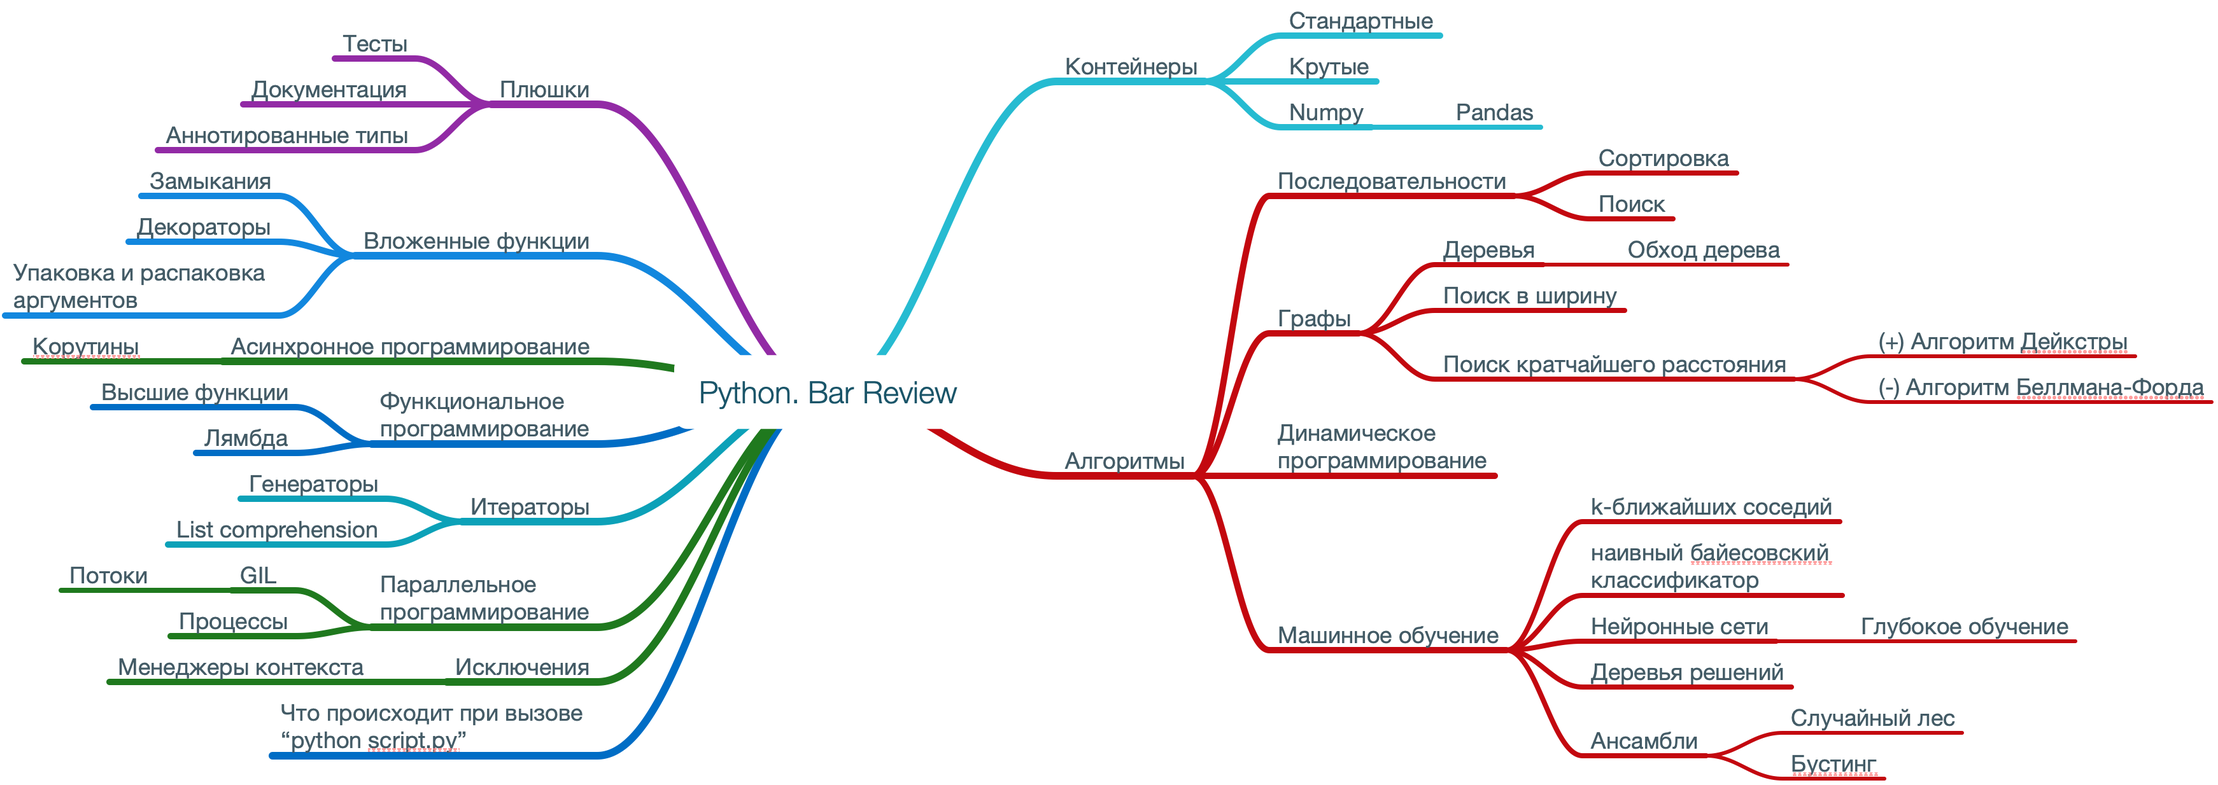
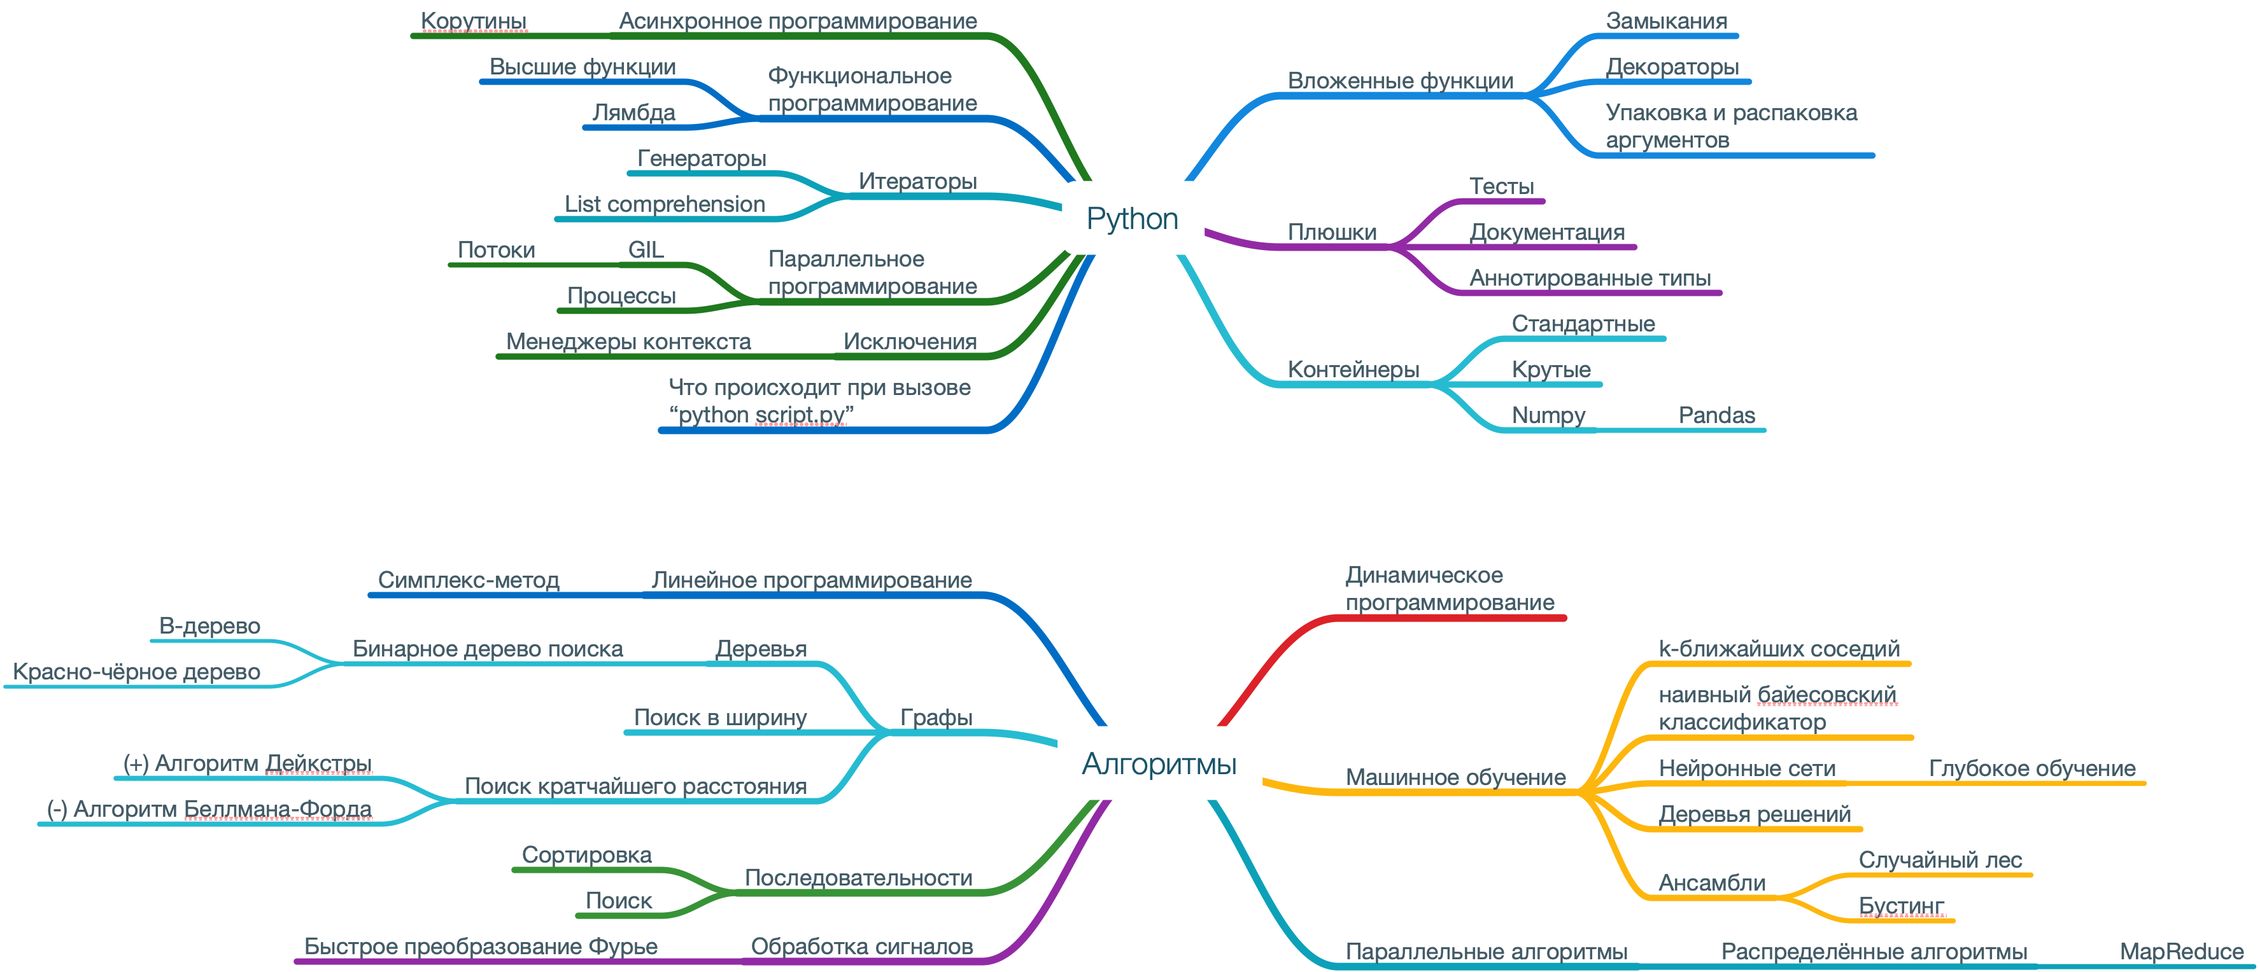
feat(syllabus): add additional algorithms

diff --git a/syllabus/syllabus.mm b/syllabus/syllabus.mm
@@ -1,27 +1,14 @@
-<map version="1.0.0"><node ID="8ECD3466-9C7C-4C0B-A3CE-2BFA047778C5" BACKGROUND_COLOR="#FFFFFF" TEXT="Python. Bar Review" COLOR="#1A5569" POSITION="right" STYLE="bubble"><edge COLOR="#1A5469" WIDTH="4" /><font NAME="HelveticaNeue-Light" SIZE="24" /><node ID="C0220CFD-A3BE-4C79-B2D3-633D93D4E8A9" TEXT="&#1050;&#1086;&#1085;&#1090;&#1077;&#1081;&#1085;&#1077;&#1088;&#1099;" COLOR="#435B66" POSITION="right" STYLE="fork"><edge COLOR="#25BAD1" WIDTH="6" /><font NAME="HelveticaNeue" SIZE="18" /><node ID="29D1FE3F-DA1B-400C-9C0A-5FA8BA569C10" TEXT="&#1057;&#1090;&#1072;&#1085;&#1076;&#1072;&#1088;&#1090;&#1085;&#1099;&#1077;" COLOR="#435B66" POSITION="right" STYLE="fork"><edge COLOR="#25BAD1" WIDTH="5" /><font NAME="HelveticaNeue" SIZE="18" /></node>
+<map version="1.0.0"><node Text="Mind Map"><node ID="8ECD3466-9C7C-4C0B-A3CE-2BFA047778C5" BACKGROUND_COLOR="#FFFFFF" TEXT="Python" COLOR="#1A5569" POSITION="right" STYLE="bubble"><edge COLOR="#1A5469" WIDTH="4" /><font NAME="HelveticaNeue-Light" SIZE="24" /><node ID="0F23BC96-E40B-48C0-90B7-D39E2A319F69" TEXT="&#1042;&#1083;&#1086;&#1078;&#1077;&#1085;&#1085;&#1099;&#1077; &#1092;&#1091;&#1085;&#1082;&#1094;&#1080;&#1080;" COLOR="#435B66" POSITION="right" STYLE="fork"><edge COLOR="#1286DE" WIDTH="6" /><font NAME="HelveticaNeue" SIZE="18" /><node ID="79695E8F-3302-4248-BA6D-52C0089AD57E" TEXT="&#1047;&#1072;&#1084;&#1099;&#1082;&#1072;&#1085;&#1080;&#1103;" COLOR="#435B66" POSITION="right" STYLE="fork"><edge COLOR="#1286DE" WIDTH="5" /><font NAME="HelveticaNeue" SIZE="18" /></node>
+<node ID="023BF15F-4CBC-48BD-B8C4-F1ABDEA6B1EC" TEXT="&#1044;&#1077;&#1082;&#1086;&#1088;&#1072;&#1090;&#1086;&#1088;&#1099;" COLOR="#435B66" POSITION="right" STYLE="fork"><edge COLOR="#1286DE" WIDTH="5" /><font NAME="HelveticaNeue" SIZE="18" /></node>
+<node ID="C581C0E2-488C-4DAD-AC4A-4E69DBB9EBCA" TEXT="&#1059;&#1087;&#1072;&#1082;&#1086;&#1074;&#1082;&#1072; &#1080; &#1088;&#1072;&#1089;&#1087;&#1072;&#1082;&#1086;&#1074;&#1082;&#1072; &#1072;&#1088;&#1075;&#1091;&#1084;&#1077;&#1085;&#1090;&#1086;&#1074;" COLOR="#435B66" POSITION="right" STYLE="fork"><edge COLOR="#1286DE" WIDTH="5" /><font NAME="HelveticaNeue" SIZE="18" /></node>
+</node>
+<node ID="DA55AC8F-4DC9-4E64-A98B-B39C810A7DAB" TEXT="&#1055;&#1083;&#1102;&#1096;&#1082;&#1080;" COLOR="#435B66" POSITION="right" STYLE="fork"><edge COLOR="#922AA4" WIDTH="6" /><font NAME="HelveticaNeue" SIZE="18" /><node ID="98374155-4B7B-4C69-9FD7-BB05AFDBAD1D" TEXT="&#1058;&#1077;&#1089;&#1090;&#1099;" COLOR="#435B66" POSITION="right" STYLE="fork"><edge COLOR="#922AA4" WIDTH="5" /><font NAME="HelveticaNeue" SIZE="18" /></node>
+<node ID="E003D9E8-A8B7-46EF-A676-8E44193AACE4" TEXT="&#1044;&#1086;&#1082;&#1091;&#1084;&#1077;&#1085;&#1090;&#1072;&#1094;&#1080;&#1103;" COLOR="#435B66" POSITION="right" STYLE="fork"><edge COLOR="#922AA4" WIDTH="5" /><font NAME="HelveticaNeue" SIZE="18" /></node>
+<node ID="658D0BDA-5227-41FF-8C41-C3824AD63FD4" TEXT="&#1040;&#1085;&#1085;&#1086;&#1090;&#1080;&#1088;&#1086;&#1074;&#1072;&#1085;&#1085;&#1099;&#1077; &#1090;&#1080;&#1087;&#1099;" COLOR="#435B66" POSITION="right" STYLE="fork"><edge COLOR="#922AA4" WIDTH="5" /><font NAME="HelveticaNeue" SIZE="18" /></node>
+</node>
+<node ID="C0220CFD-A3BE-4C79-B2D3-633D93D4E8A9" TEXT="&#1050;&#1086;&#1085;&#1090;&#1077;&#1081;&#1085;&#1077;&#1088;&#1099;" COLOR="#435B66" POSITION="right" STYLE="fork"><edge COLOR="#25BAD1" WIDTH="6" /><font NAME="HelveticaNeue" SIZE="18" /><node ID="29D1FE3F-DA1B-400C-9C0A-5FA8BA569C10" TEXT="&#1057;&#1090;&#1072;&#1085;&#1076;&#1072;&#1088;&#1090;&#1085;&#1099;&#1077;" COLOR="#435B66" POSITION="right" STYLE="fork"><edge COLOR="#25BAD1" WIDTH="5" /><font NAME="HelveticaNeue" SIZE="18" /></node>
 <node ID="F9585E78-6528-4F38-9D5A-A3D3A4517D61" TEXT="&#1050;&#1088;&#1091;&#1090;&#1099;&#1077;" COLOR="#435B66" POSITION="right" STYLE="fork"><edge COLOR="#25BAD1" WIDTH="5" /><font NAME="HelveticaNeue" SIZE="18" /></node>
 <node ID="4914A1A3-D3C8-4916-B5EC-4465EC121BB1" TEXT="Numpy" COLOR="#435B66" POSITION="right" STYLE="fork"><edge COLOR="#25BAD1" WIDTH="5" /><font NAME="HelveticaNeue" SIZE="18" /><node ID="6E85FA9A-EE04-4BBD-9E30-794FDA604EE5" TEXT="Pandas" COLOR="#435B66" POSITION="right" STYLE="fork"><edge COLOR="#25BAD1" WIDTH="4" /><font NAME="HelveticaNeue" SIZE="18" /></node>
-</node>
-</node>
-<node ID="99CD8329-E127-4B9B-98D1-E4C412B0BABD" TEXT="&#1040;&#1083;&#1075;&#1086;&#1088;&#1080;&#1090;&#1084;&#1099;" COLOR="#435B66" POSITION="right" STYLE="fork"><edge COLOR="#C2080E" WIDTH="6" /><font NAME="HelveticaNeue" SIZE="18" /><node ID="37137990-C473-4A3A-935D-C73163A06745" TEXT="&#1055;&#1086;&#1089;&#1083;&#1077;&#1076;&#1086;&#1074;&#1072;&#1090;&#1077;&#1083;&#1100;&#1085;&#1086;&#1089;&#1090;&#1080;" COLOR="#435B66" POSITION="right" STYLE="fork"><edge COLOR="#C2080E" WIDTH="5" /><font NAME="HelveticaNeue" SIZE="18" /><node ID="F658EE6B-2CD9-4604-8A34-AADAEB605E7F" TEXT="&#1057;&#1086;&#1088;&#1090;&#1080;&#1088;&#1086;&#1074;&#1082;&#1072;" COLOR="#435B66" POSITION="right" STYLE="fork"><edge COLOR="#C2080E" WIDTH="4" /><font NAME="HelveticaNeue" SIZE="18" /></node>
-<node ID="35EBF899-55AD-43FD-9D40-ED1AD45F9875" TEXT="&#1055;&#1086;&#1080;&#1089;&#1082;" COLOR="#435B66" POSITION="right" STYLE="fork"><edge COLOR="#C2080E" WIDTH="4" /><font NAME="HelveticaNeue" SIZE="18" /></node>
-</node>
-<node ID="48013EFB-696B-47D6-8791-3FFE5B12008D" TEXT="&#1043;&#1088;&#1072;&#1092;&#1099;" COLOR="#435B66" POSITION="right" STYLE="fork"><edge COLOR="#C2080E" WIDTH="5" /><font NAME="HelveticaNeue" SIZE="18" /><node ID="BDBC08D9-AE35-4150-A378-7BBA29AD6923" TEXT="&#1044;&#1077;&#1088;&#1077;&#1074;&#1100;&#1103;" COLOR="#435B66" POSITION="right" STYLE="fork"><edge COLOR="#C2080E" WIDTH="4" /><font NAME="HelveticaNeue" SIZE="18" /><node ID="95F0F8CD-3ED7-4630-8066-53937DD55DE9" TEXT="&#1054;&#1073;&#1093;&#1086;&#1076; &#1076;&#1077;&#1088;&#1077;&#1074;&#1072;" COLOR="#435B66" POSITION="right" STYLE="fork"><edge COLOR="#C2080E" WIDTH="3" /><font NAME="HelveticaNeue" SIZE="18" /></node>
-</node>
-<node ID="A5D864A8-5C51-4B9F-85FA-993E7969E9C6" TEXT="&#1055;&#1086;&#1080;&#1089;&#1082; &#1074; &#1096;&#1080;&#1088;&#1080;&#1085;&#1091;" COLOR="#435B66" POSITION="right" STYLE="fork"><edge COLOR="#C2080E" WIDTH="4" /><font NAME="HelveticaNeue" SIZE="18" /></node>
-<node ID="682ED7F7-F726-4FEA-B818-F42B20E3FA0A" TEXT="&#1055;&#1086;&#1080;&#1089;&#1082; &#1082;&#1088;&#1072;&#1090;&#1095;&#1072;&#1081;&#1096;&#1077;&#1075;&#1086; &#1088;&#1072;&#1089;&#1089;&#1090;&#1086;&#1103;&#1085;&#1080;&#1103;" COLOR="#435B66" POSITION="right" STYLE="fork"><edge COLOR="#C2080E" WIDTH="4" /><font NAME="HelveticaNeue" SIZE="18" /><node ID="62012119-FD24-4769-BECF-6DD66FF60A3A" TEXT="(+) &#1040;&#1083;&#1075;&#1086;&#1088;&#1080;&#1090;&#1084; &#1044;&#1077;&#1081;&#1082;&#1089;&#1090;&#1088;&#1099;" COLOR="#435B66" POSITION="right" STYLE="fork"><edge COLOR="#C2080E" WIDTH="3" /><font NAME="HelveticaNeue" SIZE="18" /></node>
-<node ID="FF31F69A-B9C4-41F8-8729-BEBF8BD3243F" TEXT="(-) &#1040;&#1083;&#1075;&#1086;&#1088;&#1080;&#1090;&#1084; &#1041;&#1077;&#1083;&#1083;&#1084;&#1072;&#1085;&#1072;-&#1060;&#1086;&#1088;&#1076;&#1072;" COLOR="#435B66" POSITION="right" STYLE="fork"><edge COLOR="#C2080E" WIDTH="3" /><font NAME="HelveticaNeue" SIZE="18" /></node>
-</node>
-</node>
-<node ID="9CC39741-769A-455E-8AC3-24665DF8F012" TEXT="&#1044;&#1080;&#1085;&#1072;&#1084;&#1080;&#1095;&#1077;&#1089;&#1082;&#1086;&#1077; &#1087;&#1088;&#1086;&#1075;&#1088;&#1072;&#1084;&#1084;&#1080;&#1088;&#1086;&#1074;&#1072;&#1085;&#1080;&#1077;" COLOR="#435B66" POSITION="right" STYLE="fork"><edge COLOR="#C2080E" WIDTH="5" /><font NAME="HelveticaNeue" SIZE="18" /></node>
-<node ID="AD06E476-D7E3-465A-A7E0-AFA93149B640" TEXT="&#1052;&#1072;&#1096;&#1080;&#1085;&#1085;&#1086;&#1077; &#1086;&#1073;&#1091;&#1095;&#1077;&#1085;&#1080;&#1077;" COLOR="#435B66" POSITION="right" STYLE="fork"><edge COLOR="#C2080E" WIDTH="5" /><font NAME="HelveticaNeue" SIZE="18" /><node ID="EC81CB6C-7601-455A-9A7B-2F9DD6FE8D14" TEXT="k-&#1073;&#1083;&#1080;&#1078;&#1072;&#1081;&#1096;&#1080;&#1093; &#1089;&#1086;&#1089;&#1077;&#1076;&#1080;&#1081;" COLOR="#435B66" POSITION="right" STYLE="fork"><edge COLOR="#C2080E" WIDTH="4" /><font NAME="HelveticaNeue" SIZE="18" /></node>
-<node ID="5FCAD8BC-ED73-4FD1-B41C-1930D47FAF59" TEXT="&#1085;&#1072;&#1080;&#1074;&#1085;&#1099;&#1081; &#1073;&#1072;&#1081;&#1077;&#1089;&#1086;&#1074;&#1089;&#1082;&#1080;&#1081; &#1082;&#1083;&#1072;&#1089;&#1089;&#1080;&#1092;&#1080;&#1082;&#1072;&#1090;&#1086;&#1088;" COLOR="#435B66" POSITION="right" STYLE="fork"><edge COLOR="#C2080E" WIDTH="4" /><font NAME="HelveticaNeue" SIZE="18" /></node>
-<node ID="24B04F0A-410E-4FAB-937F-5A12B4CDF8B9" TEXT="&#1053;&#1077;&#1081;&#1088;&#1086;&#1085;&#1085;&#1099;&#1077; &#1089;&#1077;&#1090;&#1080;" COLOR="#435B66" POSITION="right" STYLE="fork"><edge COLOR="#C2080E" WIDTH="4" /><font NAME="HelveticaNeue" SIZE="18" /><node ID="0988B802-A969-482D-8ABA-DFD31357E057" TEXT="&#1043;&#1083;&#1091;&#1073;&#1086;&#1082;&#1086;&#1077; &#1086;&#1073;&#1091;&#1095;&#1077;&#1085;&#1080;&#1077;" COLOR="#435B66" POSITION="right" STYLE="fork"><edge COLOR="#C2080E" WIDTH="3" /><font NAME="HelveticaNeue" SIZE="18" /></node>
-</node>
-<node ID="62373FD2-9779-4786-B24C-8F18F8E9E68F" TEXT="&#1044;&#1077;&#1088;&#1077;&#1074;&#1100;&#1103; &#1088;&#1077;&#1096;&#1077;&#1085;&#1080;&#1081;" COLOR="#435B66" POSITION="right" STYLE="fork"><edge COLOR="#C2080E" WIDTH="4" /><font NAME="HelveticaNeue" SIZE="18" /></node>
-<node ID="024D6D93-C98F-4DF4-A269-3BE1BC802983" TEXT="&#1040;&#1085;&#1089;&#1072;&#1084;&#1073;&#1083;&#1080;" COLOR="#435B66" POSITION="right" STYLE="fork"><edge COLOR="#C2080E" WIDTH="4" /><font NAME="HelveticaNeue" SIZE="18" /><node ID="D3A22602-C7A6-428D-A0A9-4A60C3D7ACC3" TEXT="&#1057;&#1083;&#1091;&#1095;&#1072;&#1081;&#1085;&#1099;&#1081; &#1083;&#1077;&#1089;" COLOR="#435B66" POSITION="right" STYLE="fork"><edge COLOR="#C2080E" WIDTH="3" /><font NAME="HelveticaNeue" SIZE="18" /></node>
-<node ID="11E8D690-3496-400B-9959-85E705D373F9" TEXT="&#1041;&#1091;&#1089;&#1090;&#1080;&#1085;&#1075;" COLOR="#435B66" POSITION="right" STYLE="fork"><edge COLOR="#C2080E" WIDTH="3" /><font NAME="HelveticaNeue" SIZE="18" /></node>
-</node>
 </node>
 </node>
 <node ID="9AE8308B-0A88-42BA-883C-6E2BC09299FC" TEXT="&#1063;&#1090;&#1086; &#1087;&#1088;&#1086;&#1080;&#1089;&#1093;&#1086;&#1076;&#1080;&#1090; &#1087;&#1088;&#1080; &#1074;&#1099;&#1079;&#1086;&#1074;&#1077; &#8220;python script.py&#8221;" COLOR="#435B66" POSITION="left" STYLE="fork"><edge COLOR="#FFFFFFF96DC4" WIDTH="6" /><font NAME="HelveticaNeue" SIZE="18" /></node>
@@ -39,13 +26,36 @@
 </node>
 <node ID="8BC8C82E-9962-489D-BABC-7269F31B2695" TEXT="&#1040;&#1089;&#1080;&#1085;&#1093;&#1088;&#1086;&#1085;&#1085;&#1086;&#1077; &#1087;&#1088;&#1086;&#1075;&#1088;&#1072;&#1084;&#1084;&#1080;&#1088;&#1086;&#1074;&#1072;&#1085;&#1080;&#1077;" COLOR="#435B66" POSITION="left" STYLE="fork"><edge COLOR="#1E791D" WIDTH="6" /><font NAME="HelveticaNeue" SIZE="18" /><node ID="AE547C02-1C89-4541-ADF3-5EDC9BA7C2FD" TEXT="&#1050;&#1086;&#1088;&#1091;&#1090;&#1080;&#1085;&#1099;" COLOR="#435B66" POSITION="left" STYLE="fork"><edge COLOR="#1E791D" WIDTH="5" /><font NAME="HelveticaNeue" SIZE="18" /></node>
 </node>
-<node ID="0F23BC96-E40B-48C0-90B7-D39E2A319F69" TEXT="&#1042;&#1083;&#1086;&#1078;&#1077;&#1085;&#1085;&#1099;&#1077; &#1092;&#1091;&#1085;&#1082;&#1094;&#1080;&#1080;" COLOR="#435B66" POSITION="left" STYLE="fork"><edge COLOR="#1286DE" WIDTH="6" /><font NAME="HelveticaNeue" SIZE="18" /><node ID="79695E8F-3302-4248-BA6D-52C0089AD57E" TEXT="&#1047;&#1072;&#1084;&#1099;&#1082;&#1072;&#1085;&#1080;&#1103;" COLOR="#435B66" POSITION="left" STYLE="fork"><edge COLOR="#1286DE" WIDTH="5" /><font NAME="HelveticaNeue" SIZE="18" /></node>
-<node ID="023BF15F-4CBC-48BD-B8C4-F1ABDEA6B1EC" TEXT="&#1044;&#1077;&#1082;&#1086;&#1088;&#1072;&#1090;&#1086;&#1088;&#1099;" COLOR="#435B66" POSITION="left" STYLE="fork"><edge COLOR="#1286DE" WIDTH="5" /><font NAME="HelveticaNeue" SIZE="18" /></node>
-<node ID="C581C0E2-488C-4DAD-AC4A-4E69DBB9EBCA" TEXT="&#1059;&#1087;&#1072;&#1082;&#1086;&#1074;&#1082;&#1072; &#1080; &#1088;&#1072;&#1089;&#1087;&#1072;&#1082;&#1086;&#1074;&#1082;&#1072; &#1072;&#1088;&#1075;&#1091;&#1084;&#1077;&#1085;&#1090;&#1086;&#1074;" COLOR="#435B66" POSITION="left" STYLE="fork"><edge COLOR="#1286DE" WIDTH="5" /><font NAME="HelveticaNeue" SIZE="18" /></node>
 </node>
-<node ID="DA55AC8F-4DC9-4E64-A98B-B39C810A7DAB" TEXT="&#1055;&#1083;&#1102;&#1096;&#1082;&#1080;" COLOR="#435B66" POSITION="left" STYLE="fork"><edge COLOR="#922AA4" WIDTH="6" /><font NAME="HelveticaNeue" SIZE="18" /><node ID="98374155-4B7B-4C69-9FD7-BB05AFDBAD1D" TEXT="&#1058;&#1077;&#1089;&#1090;&#1099;" COLOR="#435B66" POSITION="left" STYLE="fork"><edge COLOR="#922AA4" WIDTH="5" /><font NAME="HelveticaNeue" SIZE="18" /></node>
-<node ID="E003D9E8-A8B7-46EF-A676-8E44193AACE4" TEXT="&#1044;&#1086;&#1082;&#1091;&#1084;&#1077;&#1085;&#1090;&#1072;&#1094;&#1080;&#1103;" COLOR="#435B66" POSITION="left" STYLE="fork"><edge COLOR="#922AA4" WIDTH="5" /><font NAME="HelveticaNeue" SIZE="18" /></node>
-<node ID="658D0BDA-5227-41FF-8C41-C3824AD63FD4" TEXT="&#1040;&#1085;&#1085;&#1086;&#1090;&#1080;&#1088;&#1086;&#1074;&#1072;&#1085;&#1085;&#1099;&#1077; &#1090;&#1080;&#1087;&#1099;" COLOR="#435B66" POSITION="left" STYLE="fork"><edge COLOR="#922AA4" WIDTH="5" /><font NAME="HelveticaNeue" SIZE="18" /></node>
+<node ID="05D69DCE-BC29-4180-AEC7-58F980B44084" BACKGROUND_COLOR="#FFFFFF" TEXT="&#1040;&#1083;&#1075;&#1086;&#1088;&#1080;&#1090;&#1084;&#1099;" COLOR="#1A5469" POSITION="right" STYLE="bubble"><edge COLOR="#1A5469" WIDTH="4" /><font NAME="HelveticaNeue-Light" SIZE="24" /><node ID="9CC39741-769A-455E-8AC3-24665DF8F012" TEXT="&#1044;&#1080;&#1085;&#1072;&#1084;&#1080;&#1095;&#1077;&#1089;&#1082;&#1086;&#1077; &#1087;&#1088;&#1086;&#1075;&#1088;&#1072;&#1084;&#1084;&#1080;&#1088;&#1086;&#1074;&#1072;&#1085;&#1080;&#1077;" COLOR="#435B66" POSITION="right" STYLE="fork"><edge COLOR="#DC2128" WIDTH="6" /><font NAME="HelveticaNeue" SIZE="18" /></node>
+<node ID="AD06E476-D7E3-465A-A7E0-AFA93149B640" TEXT="&#1052;&#1072;&#1096;&#1080;&#1085;&#1085;&#1086;&#1077; &#1086;&#1073;&#1091;&#1095;&#1077;&#1085;&#1080;&#1077;" COLOR="#435B66" POSITION="right" STYLE="fork"><edge COLOR="#FCB60D" WIDTH="6" /><font NAME="HelveticaNeue" SIZE="18" /><node ID="EC81CB6C-7601-455A-9A7B-2F9DD6FE8D14" TEXT="k-&#1073;&#1083;&#1080;&#1078;&#1072;&#1081;&#1096;&#1080;&#1093; &#1089;&#1086;&#1089;&#1077;&#1076;&#1080;&#1081;" COLOR="#435B66" POSITION="right" STYLE="fork"><edge COLOR="#FCB60D" WIDTH="5" /><font NAME="HelveticaNeue" SIZE="18" /></node>
+<node ID="5FCAD8BC-ED73-4FD1-B41C-1930D47FAF59" TEXT="&#1085;&#1072;&#1080;&#1074;&#1085;&#1099;&#1081; &#1073;&#1072;&#1081;&#1077;&#1089;&#1086;&#1074;&#1089;&#1082;&#1080;&#1081; &#1082;&#1083;&#1072;&#1089;&#1089;&#1080;&#1092;&#1080;&#1082;&#1072;&#1090;&#1086;&#1088;" COLOR="#435B66" POSITION="right" STYLE="fork"><edge COLOR="#FCB60D" WIDTH="5" /><font NAME="HelveticaNeue" SIZE="18" /></node>
+<node ID="24B04F0A-410E-4FAB-937F-5A12B4CDF8B9" TEXT="&#1053;&#1077;&#1081;&#1088;&#1086;&#1085;&#1085;&#1099;&#1077; &#1089;&#1077;&#1090;&#1080;" COLOR="#435B66" POSITION="right" STYLE="fork"><edge COLOR="#FCB60D" WIDTH="5" /><font NAME="HelveticaNeue" SIZE="18" /><node ID="0988B802-A969-482D-8ABA-DFD31357E057" TEXT="&#1043;&#1083;&#1091;&#1073;&#1086;&#1082;&#1086;&#1077; &#1086;&#1073;&#1091;&#1095;&#1077;&#1085;&#1080;&#1077;" COLOR="#435B66" POSITION="right" STYLE="fork"><edge COLOR="#FCB60D" WIDTH="4" /><font NAME="HelveticaNeue" SIZE="18" /></node>
+</node>
+<node ID="62373FD2-9779-4786-B24C-8F18F8E9E68F" TEXT="&#1044;&#1077;&#1088;&#1077;&#1074;&#1100;&#1103; &#1088;&#1077;&#1096;&#1077;&#1085;&#1080;&#1081;" COLOR="#435B66" POSITION="right" STYLE="fork"><edge COLOR="#FCB60D" WIDTH="5" /><font NAME="HelveticaNeue" SIZE="18" /></node>
+<node ID="024D6D93-C98F-4DF4-A269-3BE1BC802983" TEXT="&#1040;&#1085;&#1089;&#1072;&#1084;&#1073;&#1083;&#1080;" COLOR="#435B66" POSITION="right" STYLE="fork"><edge COLOR="#FCB60D" WIDTH="5" /><font NAME="HelveticaNeue" SIZE="18" /><node ID="D3A22602-C7A6-428D-A0A9-4A60C3D7ACC3" TEXT="&#1057;&#1083;&#1091;&#1095;&#1072;&#1081;&#1085;&#1099;&#1081; &#1083;&#1077;&#1089;" COLOR="#435B66" POSITION="right" STYLE="fork"><edge COLOR="#FCB60D" WIDTH="4" /><font NAME="HelveticaNeue" SIZE="18" /></node>
+<node ID="11E8D690-3496-400B-9959-85E705D373F9" TEXT="&#1041;&#1091;&#1089;&#1090;&#1080;&#1085;&#1075;" COLOR="#435B66" POSITION="right" STYLE="fork"><edge COLOR="#FCB60D" WIDTH="4" /><font NAME="HelveticaNeue" SIZE="18" /></node>
+</node>
+</node>
+<node ID="08EAFDA1-2BC7-4247-99D2-18EDFB2F451E" TEXT="&#1055;&#1072;&#1088;&#1072;&#1083;&#1083;&#1077;&#1083;&#1100;&#1085;&#1099;&#1077; &#1072;&#1083;&#1075;&#1086;&#1088;&#1080;&#1090;&#1084;&#1099;" COLOR="#435B66" POSITION="right" STYLE="fork"><edge COLOR="#0CA1B7" WIDTH="6" /><font NAME="HelveticaNeue" SIZE="18" /><node ID="95EF266C-DC2D-44AF-9F41-965B7A4A82C8" TEXT="&#1056;&#1072;&#1089;&#1087;&#1088;&#1077;&#1076;&#1077;&#1083;&#1105;&#1085;&#1085;&#1099;&#1077; &#1072;&#1083;&#1075;&#1086;&#1088;&#1080;&#1090;&#1084;&#1099;" COLOR="#435B66" POSITION="right" STYLE="fork"><edge COLOR="#0CA1B7" WIDTH="5" /><font NAME="HelveticaNeue" SIZE="18" /><node ID="7613E1DE-4476-4709-8668-DCF7A2957ED6" TEXT="MapReduce" COLOR="#435B66" POSITION="right" STYLE="fork"><edge COLOR="#0CA1B7" WIDTH="4" /><font NAME="HelveticaNeue" SIZE="18" /></node>
+</node>
+</node>
+<node ID="3512DFA8-B1D6-45C4-A86A-D477DD736322" TEXT="&#1054;&#1073;&#1088;&#1072;&#1073;&#1086;&#1090;&#1082;&#1072; &#1089;&#1080;&#1075;&#1085;&#1072;&#1083;&#1086;&#1074;" COLOR="#435B66" POSITION="left" STYLE="fork"><edge COLOR="#922AA4" WIDTH="6" /><font NAME="HelveticaNeue" SIZE="18" /><node ID="0DC90F17-1E85-43B1-914C-33C064D92545" TEXT="&#1041;&#1099;&#1089;&#1090;&#1088;&#1086;&#1077; &#1087;&#1088;&#1077;&#1086;&#1073;&#1088;&#1072;&#1079;&#1086;&#1074;&#1072;&#1085;&#1080;&#1077; &#1060;&#1091;&#1088;&#1100;&#1077;" COLOR="#435B66" POSITION="left" STYLE="fork"><edge COLOR="#922AA4" WIDTH="5" /><font NAME="HelveticaNeue" SIZE="18" /></node>
+</node>
+<node ID="37137990-C473-4A3A-935D-C73163A06745" TEXT="&#1055;&#1086;&#1089;&#1083;&#1077;&#1076;&#1086;&#1074;&#1072;&#1090;&#1077;&#1083;&#1100;&#1085;&#1086;&#1089;&#1090;&#1080;" COLOR="#435B66" POSITION="left" STYLE="fork"><edge COLOR="#389237" WIDTH="6" /><font NAME="HelveticaNeue" SIZE="18" /><node ID="F658EE6B-2CD9-4604-8A34-AADAEB605E7F" TEXT="&#1057;&#1086;&#1088;&#1090;&#1080;&#1088;&#1086;&#1074;&#1082;&#1072;" COLOR="#435B66" POSITION="left" STYLE="fork"><edge COLOR="#389237" WIDTH="5" /><font NAME="HelveticaNeue" SIZE="18" /></node>
+<node ID="35EBF899-55AD-43FD-9D40-ED1AD45F9875" TEXT="&#1055;&#1086;&#1080;&#1089;&#1082;" COLOR="#435B66" POSITION="left" STYLE="fork"><edge COLOR="#389237" WIDTH="5" /><font NAME="HelveticaNeue" SIZE="18" /></node>
+</node>
+<node ID="48013EFB-696B-47D6-8791-3FFE5B12008D" TEXT="&#1043;&#1088;&#1072;&#1092;&#1099;" COLOR="#435B66" POSITION="left" STYLE="fork"><edge COLOR="#25BAD1" WIDTH="6" /><font NAME="HelveticaNeue" SIZE="18" /><node ID="BDBC08D9-AE35-4150-A378-7BBA29AD6923" TEXT="&#1044;&#1077;&#1088;&#1077;&#1074;&#1100;&#1103;" COLOR="#435B66" POSITION="left" STYLE="fork"><edge COLOR="#25BAD1" WIDTH="5" /><font NAME="HelveticaNeue" SIZE="18" /><node ID="634080DC-BC26-4C76-8924-D2591E00AA2B" TEXT="&#1041;&#1080;&#1085;&#1072;&#1088;&#1085;&#1086;&#1077; &#1076;&#1077;&#1088;&#1077;&#1074;&#1086; &#1087;&#1086;&#1080;&#1089;&#1082;&#1072;" COLOR="#435B66" POSITION="left" STYLE="fork"><edge COLOR="#25BAD1" WIDTH="4" /><font NAME="HelveticaNeue" SIZE="18" /><node ID="3133A3ED-9BDA-4027-9BC1-1A63834FA3A3" TEXT="B-&#1076;&#1077;&#1088;&#1077;&#1074;&#1086;" COLOR="#435B66" POSITION="left" STYLE="fork"><edge COLOR="#25BAD1" WIDTH="3" /><font NAME="HelveticaNeue" SIZE="18" /></node>
+<node ID="6C0883C8-5D41-43D8-BD26-AAF9662ADB32" TEXT="&#1050;&#1088;&#1072;&#1089;&#1085;&#1086;-&#1095;&#1105;&#1088;&#1085;&#1086;&#1077; &#1076;&#1077;&#1088;&#1077;&#1074;&#1086;" COLOR="#435B66" POSITION="left" STYLE="fork"><edge COLOR="#25BAD1" WIDTH="3" /><font NAME="HelveticaNeue" SIZE="18" /></node>
+</node>
+</node>
+<node ID="A5D864A8-5C51-4B9F-85FA-993E7969E9C6" TEXT="&#1055;&#1086;&#1080;&#1089;&#1082; &#1074; &#1096;&#1080;&#1088;&#1080;&#1085;&#1091;" COLOR="#435B66" POSITION="left" STYLE="fork"><edge COLOR="#25BAD1" WIDTH="5" /><font NAME="HelveticaNeue" SIZE="18" /></node>
+<node ID="682ED7F7-F726-4FEA-B818-F42B20E3FA0A" TEXT="&#1055;&#1086;&#1080;&#1089;&#1082; &#1082;&#1088;&#1072;&#1090;&#1095;&#1072;&#1081;&#1096;&#1077;&#1075;&#1086; &#1088;&#1072;&#1089;&#1089;&#1090;&#1086;&#1103;&#1085;&#1080;&#1103;" COLOR="#435B66" POSITION="left" STYLE="fork"><edge COLOR="#25BAD1" WIDTH="5" /><font NAME="HelveticaNeue" SIZE="18" /><node ID="62012119-FD24-4769-BECF-6DD66FF60A3A" TEXT="(+) &#1040;&#1083;&#1075;&#1086;&#1088;&#1080;&#1090;&#1084; &#1044;&#1077;&#1081;&#1082;&#1089;&#1090;&#1088;&#1099;" COLOR="#435B66" POSITION="left" STYLE="fork"><edge COLOR="#25BAD1" WIDTH="4" /><font NAME="HelveticaNeue" SIZE="18" /></node>
+<node ID="FF31F69A-B9C4-41F8-8729-BEBF8BD3243F" TEXT="(-) &#1040;&#1083;&#1075;&#1086;&#1088;&#1080;&#1090;&#1084; &#1041;&#1077;&#1083;&#1083;&#1084;&#1072;&#1085;&#1072;-&#1060;&#1086;&#1088;&#1076;&#1072;" COLOR="#435B66" POSITION="left" STYLE="fork"><edge COLOR="#25BAD1" WIDTH="4" /><font NAME="HelveticaNeue" SIZE="18" /></node>
+</node>
+</node>
+<node ID="AA68727F-2B31-4BE9-B9C6-A8E725C62680" TEXT="&#1051;&#1080;&#1085;&#1077;&#1081;&#1085;&#1086;&#1077; &#1087;&#1088;&#1086;&#1075;&#1088;&#1072;&#1084;&#1084;&#1080;&#1088;&#1086;&#1074;&#1072;&#1085;&#1080;&#1077;" COLOR="#435B66" POSITION="left" STYLE="fork"><edge COLOR="#FFFFFFF96DC4" WIDTH="6" /><font NAME="HelveticaNeue" SIZE="18" /><node ID="0DFEAA52-2697-46A2-946E-71A39590CCA1" TEXT="&#1057;&#1080;&#1084;&#1087;&#1083;&#1077;&#1082;&#1089;-&#1084;&#1077;&#1090;&#1086;&#1076;" COLOR="#435B66" POSITION="left" STYLE="fork"><edge COLOR="#FFFFFFF96DC4" WIDTH="5" /><font NAME="HelveticaNeue" SIZE="18" /></node>
+</node>
 </node>
 </node>
 </map>
